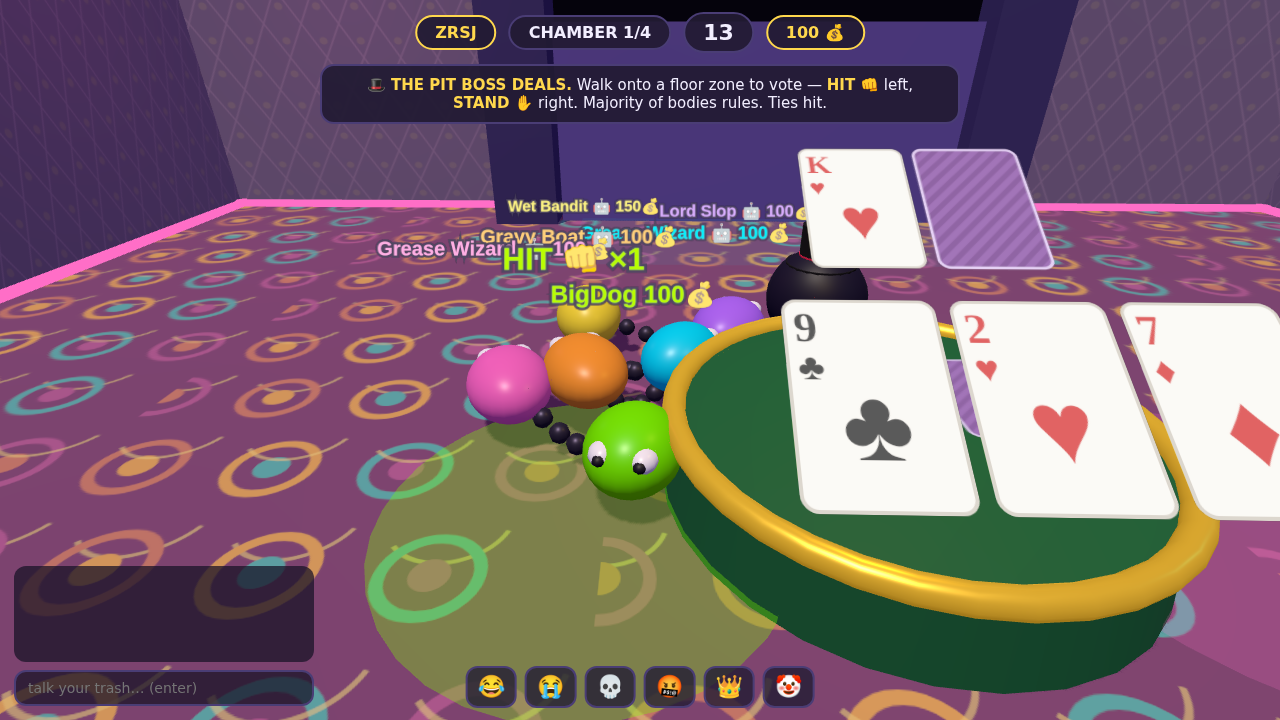
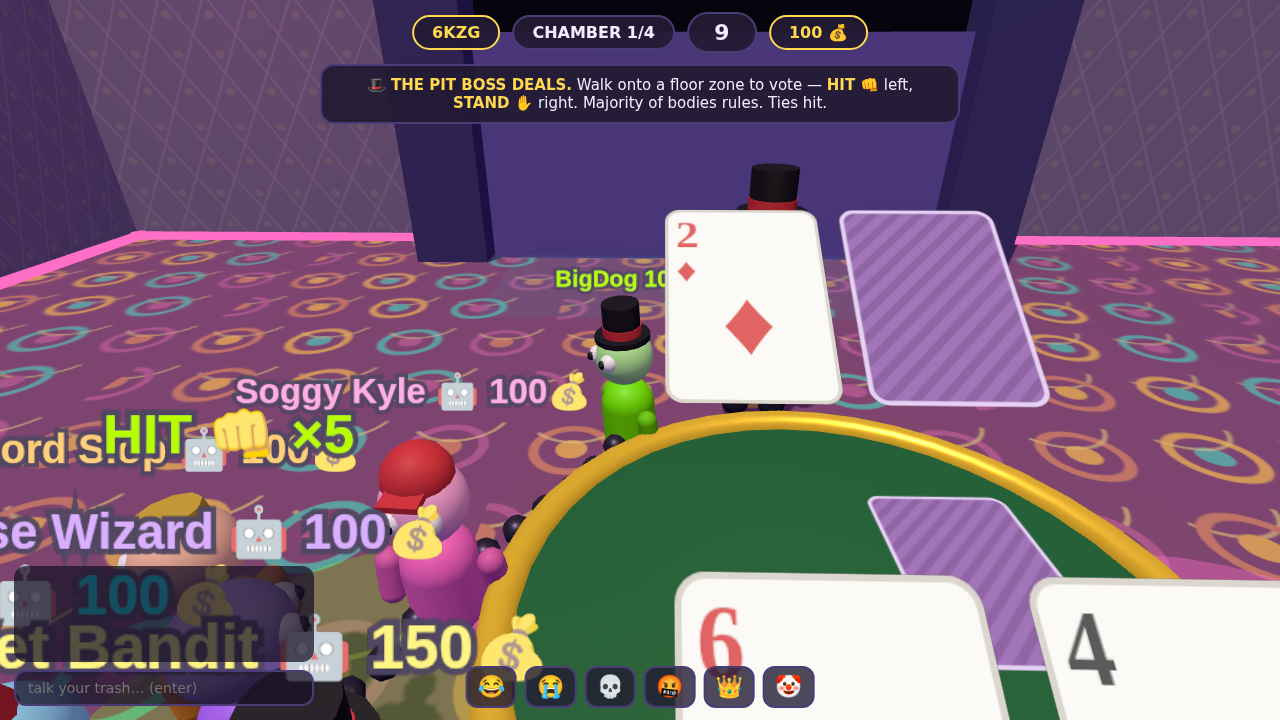
Humanoid characters: chunky slop-people with hats and walk cycles
- Procedural low-poly humanoids replace the blobs: colored suit, lighter
  face, stubby capsule limbs with a velocity-driven walk cycle, forward
  lean, dash pose (arms back), and a per-player hat (top hat / cap /
  fez / crown) assigned deterministically
- The Pit Boss is now a towering humanoid dealer with red eyes, bowtie,
  and an idle dealing-hand animation
- Corpse falls, chain height, gallstone hover, and labels retuned for
  the new proportions; fixed a test race on blackjack outcome reads

Claude-Session: https://claude.ai/code/session_014a4Rg1hvhLxLbg1EbcNxR6

diff --git a/client/js/render.js b/client/js/render.js
@@ -29,6 +29,12 @@ const corpses = [];
 
 const GEO = {
   body: new THREE.SphereGeometry(C.PLAYER_RADIUS, 24, 18),
+  torso: new THREE.CapsuleGeometry(15, 24, 6, 14),
+  leg: new THREE.CapsuleGeometry(7, 13, 4, 10),
+  arm: new THREE.CapsuleGeometry(5.5, 14, 4, 10),
+  head: new THREE.SphereGeometry(16, 20, 16),
+  eyeH: new THREE.SphereGeometry(5, 10, 8),
+  pupilH: new THREE.SphereGeometry(2.6, 8, 6),
   eye: new THREE.SphereGeometry(8, 12, 10),
   pupil: new THREE.SphereGeometry(4, 8, 8),
   aura: new THREE.SphereGeometry(C.PLAYER_RADIUS + 12, 16, 12),
@@ -53,6 +59,102 @@ const particleMats = new Map();
 function particleMat(color) {
   if (!particleMats.has(color)) particleMats.set(color, new THREE.MeshBasicMaterial({ color, transparent: true }));
   return particleMats.get(color);
+}
+
+// ---- humanoid slop-people ------------------------------------------------------
+// Chunky low-poly characters: colored suit, lighter face, stubby limbs, a hat.
+const charMatCache = new Map();
+function charMats(color) {
+  if (!charMatCache.has(color)) {
+    const base = new THREE.Color(color);
+    charMatCache.set(color, {
+      suit: new THREE.MeshStandardMaterial({ color: base, roughness: 0.5 }),
+      skin: new THREE.MeshStandardMaterial({ color: base.clone().lerp(new THREE.Color('#ffffff'), 0.35), roughness: 0.45 }),
+      limb: new THREE.MeshStandardMaterial({ color: base.clone().lerp(new THREE.Color('#000000'), 0.25), roughness: 0.55 }),
+    });
+  }
+  return charMatCache.get(color);
+}
+const HAT_DARK = new THREE.MeshStandardMaterial({ color: 0x14101f, roughness: 0.6 });
+const HAT_RED = new THREE.MeshStandardMaterial({ color: 0xd8333f, roughness: 0.6 });
+const HAT_GOLD = new THREE.MeshStandardMaterial({ color: 0xffd84d, roughness: 0.4, metalness: 0.4 });
+
+function makeHat(i) {
+  const hat = new THREE.Group();
+  if (i === 1) { // top hat
+    const brim = new THREE.Mesh(new THREE.CylinderGeometry(15, 15, 3, 16), HAT_DARK);
+    const top = new THREE.Mesh(new THREE.CylinderGeometry(10, 10, 18, 16), HAT_DARK);
+    top.position.y = 10;
+    const band = new THREE.Mesh(new THREE.CylinderGeometry(10.5, 10.5, 5, 16), HAT_RED);
+    band.position.y = 4;
+    hat.add(brim, top, band);
+  } else if (i === 2) { // cap
+    const dome = new THREE.Mesh(new THREE.SphereGeometry(13, 14, 10, 0, Math.PI * 2, 0, Math.PI / 2), HAT_RED);
+    const brim = new THREE.Mesh(new THREE.BoxGeometry(12, 2.5, 14), HAT_RED);
+    brim.position.set(12, 1, 0);
+    hat.add(dome, brim);
+  } else if (i === 3) { // fez
+    const fez = new THREE.Mesh(new THREE.CylinderGeometry(7, 10, 13, 14), HAT_RED);
+    fez.position.y = 5;
+    hat.add(fez);
+  } else if (i === 4) { // lil crown
+    const ring = new THREE.Mesh(new THREE.CylinderGeometry(10, 11, 7, 10), HAT_GOLD);
+    ring.position.y = 2;
+    hat.add(ring);
+  }
+  return hat;
+}
+
+// Root sits at ground level; feet reach y≈3. Local +x is forward.
+function buildCharacter(color, { hatIndex = 0, eyeColor = null, scale = 1 } = {}) {
+  const m = charMats(color);
+  const root = new THREE.Group();
+
+  const legL = new THREE.Group();
+  const legR = new THREE.Group();
+  for (const [pivot, side] of [[legL, -1], [legR, 1]]) {
+    pivot.position.set(0, 28, side * 9);
+    const leg = new THREE.Mesh(GEO.leg, m.limb);
+    leg.position.y = -14;
+    leg.castShadow = true;
+    pivot.add(leg);
+    root.add(pivot);
+  }
+
+  const torso = new THREE.Mesh(GEO.torso, m.suit);
+  torso.position.y = 48;
+  torso.castShadow = true;
+  root.add(torso);
+
+  const armL = new THREE.Group();
+  const armR = new THREE.Group();
+  for (const [pivot, side] of [[armL, -1], [armR, 1]]) {
+    pivot.position.set(0, 64, side * 20);
+    const arm = new THREE.Mesh(GEO.arm, m.limb);
+    arm.position.y = -13;
+    arm.castShadow = true;
+    pivot.add(arm);
+    root.add(pivot);
+  }
+
+  const head = new THREE.Mesh(GEO.head, m.skin);
+  head.position.y = 90;
+  head.castShadow = true;
+  for (const side of [-1, 1]) {
+    const eye = new THREE.Mesh(GEO.eyeH, MAT.eyeWhite);
+    eye.position.set(12.5, 2, side * 6.5);
+    const pupil = new THREE.Mesh(GEO.pupilH, eyeColor ? new THREE.MeshBasicMaterial({ color: eyeColor }) : MAT.pupil);
+    pupil.position.set(3.6, 0.3, 0);
+    eye.add(pupil);
+    head.add(eye);
+  }
+  const hat = makeHat(hatIndex);
+  hat.position.y = 12;
+  head.add(hat);
+  root.add(head);
+
+  root.scale.setScalar(scale);
+  return { root, legL, legR, armL, armR, torso, head };
 }
 
 // ---- text sprites -------------------------------------------------------------
@@ -440,23 +542,16 @@ function buildArena(kind) {
     rim.rotation.x = Math.PI / 2;
     rim.position.set(C.HUB.TABLE.x, 46, C.HUB.TABLE.y);
     group.add(rim);
-    // the boss himself: a dark blob in a top hat
-    const boss = new THREE.Group();
-    const bossBody = new THREE.Mesh(GEO.body, new THREE.MeshStandardMaterial({ color: 0x1c1530, roughness: 0.5 }));
-    bossBody.scale.setScalar(1.55);
-    const hatBrim = new THREE.Mesh(new THREE.CylinderGeometry(30, 30, 5, 20), new THREE.MeshStandardMaterial({ color: 0x0a0714 }));
-    hatBrim.position.y = 30;
-    const hatTop = new THREE.Mesh(new THREE.CylinderGeometry(19, 19, 34, 20), new THREE.MeshStandardMaterial({ color: 0x0a0714 }));
-    hatTop.position.y = 48;
-    const band = new THREE.Mesh(new THREE.CylinderGeometry(19.5, 19.5, 8, 20), new THREE.MeshStandardMaterial({ color: 0xff2050 }));
-    band.position.y = 36;
-    for (const side of [-1, 1]) {
-      const eye = new THREE.Mesh(GEO.pupil, MAT.gremlinEye);
-      eye.position.set(side * 12, 12, 26);
-      boss.add(eye);
-    }
-    boss.add(bossBody, hatBrim, hatTop, band);
-    boss.position.set(C.HUB.TABLE.x, 48, C.HUB.TABLE.y - 205);
+    // the boss himself: a towering slop-man in a top hat
+    const bossChar = buildCharacter('#241d35', { hatIndex: 1, eyeColor: 0xff3030, scale: 1.45 });
+    const boss = bossChar.root;
+    const bowtie = new THREE.Mesh(new THREE.BoxGeometry(4, 6, 14), HAT_RED);
+    bowtie.position.set(13, 74, 0);
+    boss.add(bowtie);
+    // he faces the table (south, toward the players)
+    boss.rotation.y = -Math.PI / 2;
+    boss.position.set(C.HUB.TABLE.x, 0, C.HUB.TABLE.y - 215);
+    arena.bossChar = bossChar;
     const deck = makeCardMesh('BACK');
     deck.rotation.x = -Math.PI / 2;
     deck.position.set(C.HUB.TABLE.x + 60, 48, C.HUB.TABLE.y - 20);
@@ -624,7 +719,11 @@ function updateHub(dt, ex, S) {
   arena.standZone.material.opacity = zonesActive ? 0.3 + Math.cos(time * 8) * 0.1 : 0.08;
   arena.hitLabel.userData.set(zonesActive ? `HIT 👊 ×${bj.hitIds.length}` : 'HIT 👊');
   arena.standLabel.userData.set(zonesActive ? `STAND ✋ ×${bj.standIds.length}` : 'STAND ✋');
-  arena.boss.position.y = 40 + Math.sin(time * 2.2) * 6;
+  arena.boss.rotation.y = -Math.PI / 2 + Math.sin(time * 0.9) * 0.12;
+  if (arena.bossChar) {
+    arena.bossChar.armR.rotation.z = -1.1 + Math.sin(time * 2.2) * 0.15; // dealing hand
+    arena.bossChar.armL.rotation.z = Math.sin(time * 1.7) * 0.1;
+  }
 
   if (bj) {
     const dealerCards = bj.dealer || [bj.dealerUp, 'BACK'];
@@ -785,10 +884,10 @@ function updateArena(dt, extra, S) {
     arena.fuse.visible = show;
     arena.stoneLight.intensity = show ? 30000 + Math.sin(time * 10) * 20000 : 0;
     if (show) {
-      arena.stone.position.set(holder.rx, 84 + Math.sin(time * 5) * 6, holder.rz);
+      arena.stone.position.set(holder.rx, 130 + Math.sin(time * 5) * 6, holder.rz);
       arena.stone.rotation.y += dt * 3;
-      arena.stoneLight.position.set(holder.rx, 120, holder.rz);
-      arena.fuse.position.set(holder.rx, 150, holder.rz);
+      arena.stoneLight.position.set(holder.rx, 160, holder.rz);
+      arena.fuse.position.set(holder.rx, 192, holder.rz);
       const f = extra.fuse ?? 0;
       arena.fuse.userData.set(f.toFixed(1), f < 4 ? '#ff5252' : '#ffd84d');
     }
@@ -875,39 +974,29 @@ function makeBlobView(b) {
   const yaw = new THREE.Group();
   group.add(yaw);
 
-  const body = new THREE.Mesh(GEO.body, bodyMat(b.color));
-  body.castShadow = true;
-  yaw.add(body);
-
-  for (const side of [-1, 1]) {
-    const eye = new THREE.Mesh(GEO.eye, MAT.eyeWhite);
-    eye.position.set(17, 11, side * 11);
-    const pupil = new THREE.Mesh(GEO.pupil, MAT.pupil);
-    pupil.position.set(5.5, 0.5, 0);
-    eye.add(pupil);
-    yaw.add(eye);
-  }
+  const char = buildCharacter(b.color, { hatIndex: b.id % 5 });
+  yaw.add(char.root);
 
   const aura = new THREE.Mesh(GEO.aura, new THREE.MeshBasicMaterial({
     color: b.color, transparent: true, opacity: 0.3, depthWrite: false,
   }));
+  aura.position.y = 50;
   aura.visible = false;
   group.add(aura);
 
   const label = makeTextSprite(b.name, { px: 40, color: b.color });
-  label.position.y = 92;
+  label.position.y = 132;
   group.add(label);
 
-  group.position.set(b.x, C.PLAYER_RADIUS, b.y);
+  group.position.set(b.x, 0, b.y);
   scene.add(group);
-  return { group, yaw, body, aura, label, face: 0 };
+  return { group, yaw, char, aura, label, face: 0, phase: 0 };
 }
 
 function spawnCorpse(b) {
-  const group = new THREE.Group();
-  const body = new THREE.Mesh(GEO.body, bodyMat(b.color));
-  group.add(body);
-  group.position.set(b.rx ?? b.x, C.PLAYER_RADIUS, b.rz ?? b.y);
+  const char = buildCharacter(b.color, { hatIndex: b.id % 5 });
+  const group = char.root;
+  group.position.set(b.rx ?? b.x, 10, b.rz ?? b.y);
   scene.add(group);
   corpses.push({ group, vy: -60, t: 0 });
 }
@@ -938,12 +1027,29 @@ function updateBlobViews(dt) {
     }
     v.yaw.rotation.y = -v.face;
 
-    const wob = Math.sin(time * 5 + id * 2.1) * 0.05;
-    const stretch = Math.min(0.3, sp * 0.012);
-    v.yaw.scale.set(1 + stretch + wob, 1 - stretch * 0.6 - wob, 1 + wob * 0.5);
-
-    const hop = Math.min(10, sp * 0.35);
-    v.group.position.set(b.x, C.PLAYER_RADIUS + Math.abs(Math.sin(time * 10 + id)) * hop, b.y);
+    // walk cycle from actual render-space velocity
+    const mvx = b.rx - (v.px ?? b.rx), mvz = b.rz - (v.pz ?? b.rz);
+    const vel = Math.hypot(mvx, mvz) / Math.max(dt, 1e-4);
+    v.px = b.rx; v.pz = b.rz;
+    const st = Math.min(1, vel / 340);
+    v.phase += dt * (3 + vel * 0.055);
+    const sw = Math.sin(v.phase);
+    const ch = v.char;
+    if (b.dashing) {
+      ch.armL.rotation.z = -1.7;
+      ch.armR.rotation.z = -1.7;
+      ch.legL.rotation.z = sw * 1.2;
+      ch.legR.rotation.z = -sw * 1.2;
+      ch.root.rotation.z = -0.5;
+    } else {
+      ch.legL.rotation.z = sw * 0.85 * st;
+      ch.legR.rotation.z = -sw * 0.85 * st;
+      ch.armL.rotation.z = -sw * 0.6 * st;
+      ch.armR.rotation.z = sw * 0.6 * st;
+      ch.root.rotation.z = -0.14 * st + Math.sin(time * 2 + id) * 0.02;
+    }
+    ch.root.position.y = Math.abs(Math.sin(v.phase)) * 4 * st;
+    v.group.position.set(b.x, 0, b.y);
 
     v.label.userData.set(b.money != null ? `${b.name} ${b.money}💰` : b.name, b.color);
 
@@ -993,7 +1099,7 @@ function updateChain(extra) {
         link.visible = true;
         link.position.set(
           a.rx + (b.rx - a.rx) * t,
-          C.PLAYER_RADIUS + 6 - Math.sin(t * Math.PI) * sag + Math.sin(time * 6 + j) * 1.5,
+          44 - Math.sin(t * Math.PI) * sag + Math.sin(time * 6 + j) * 1.5,
           a.rz + (b.rz - a.rz) * t,
         );
       }

diff --git a/README.md b/README.md
@@ -2,9 +2,9 @@
 
 > chained to the boys. one way out of the pit. don't bust.
 
-A 2–8 player **3D co-op party game**. You and the boys are blobs of slop,
-**physically chained together**, trying to escape a living dungeon called the
-Slop Pit. Between chambers you hang out in **The Den** — a walkable casino-carpet
+A 2–8 player **3D co-op party game**. You and the boys are little slop-people
+(chunky humanoids in dumb hats), **physically chained together**, trying to
+escape a living dungeon called the Slop Pit. Between chambers you hang out in **The Den** — a walkable casino-carpet
 hub where everything is embodied: walk the squad into the glowing gate to start
 the next chamber, and settle your fate at the Pit Boss's blackjack table by
 literally **standing on the HIT or STAND floor zone**. Majority of bodies rules.

diff --git a/docs/GAME_DESIGN.md b/docs/GAME_DESIGN.md
@@ -4,7 +4,7 @@
 
 ## The pitch
 
-2–8 friends are blobs of slop chained into one squad, escaping a living dungeon.
+2–8 friends are chunky humanoid slop-people in dumb hats, chained into one squad, escaping a living dungeon.
 It's a **co-op expedition**: four original chambers with shared team lives, a
 walkable 3D hub between them, and one hand of blackjack against the Pit Boss
 gating every advance. True friendslop: one common goal, constant physical
@@ -82,5 +82,5 @@ optional `lives` — plus a renderer branch and an entry in `MINIGAME_INFO`.
 
 ## Tone
 
-Self-aware slop with casino-den maximalism. Googly eyes look where you walk.
+Self-aware slop with casino-den maximalism. Little humanoids with swinging arms, per-player hats, and eyes that look where they walk.
 The Pit Boss never speaks. The chain never comes off.
